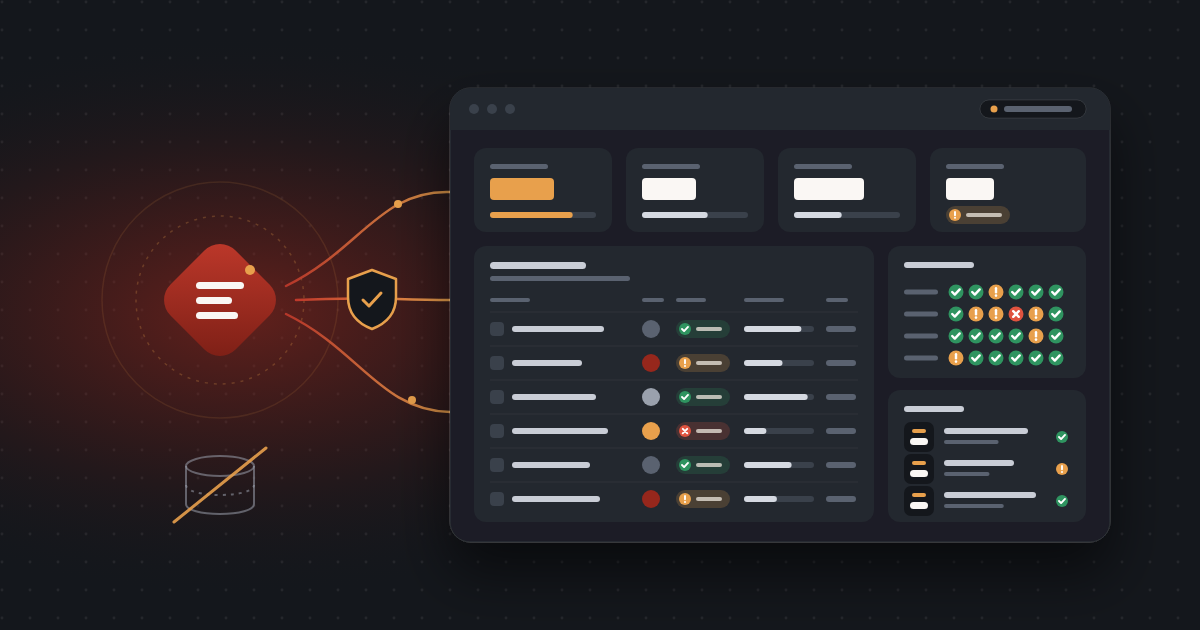
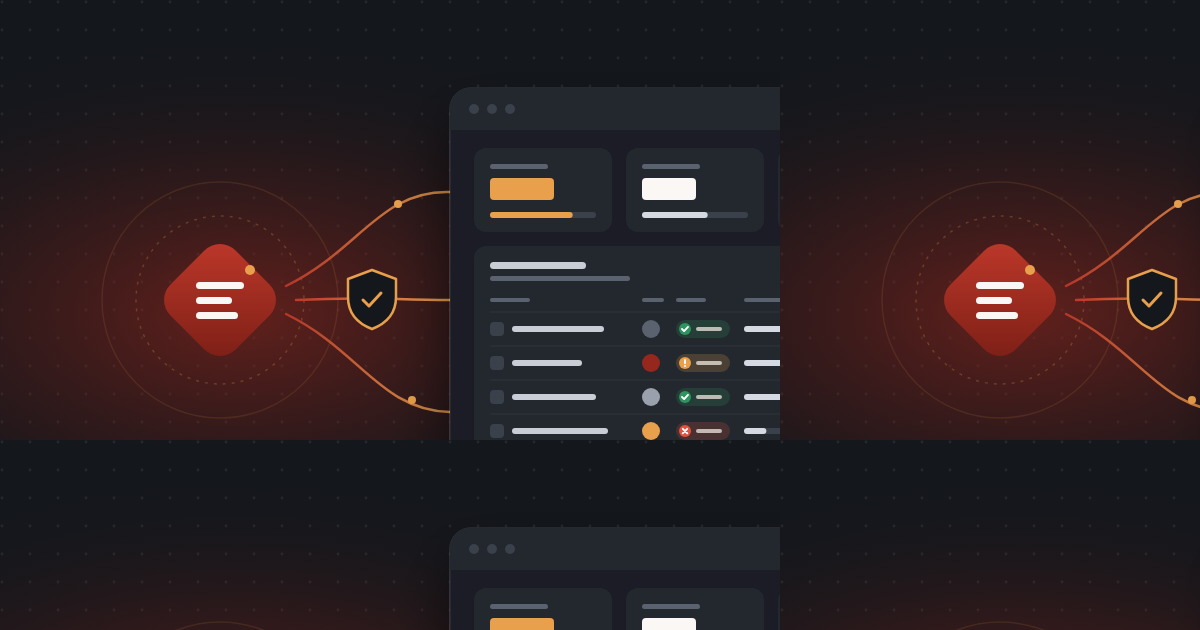
WEB-39 Enlarge hero covers and drop the data-store element
- Hero covers start 140px left of centre (not left of 520px), so they
  are larger and may slightly overlap the feathered edge of the text.
- Remove the struck-through data store from the Jira dashboard cover
  and re-export its PNG; drop the motif from design.md.

Claude-Session: https://claude.ai/code/session_01NFWGc431ugYJ81wxsmhHqL

diff --git a/case-study-dashboard/index.html b/case-study-dashboard/index.html
@@ -26,12 +26,12 @@
 
   <section style="position:relative;overflow:hidden;background:#14171C;color:#FAF7F4;padding-block:clamp(44px,5.5vw,72px);">
     [[#if hero.cover]]
-    <div class="case-cover" style="position:absolute;top:0;bottom:0;left:calc(50% + 20px);right:0;display:flex;align-items:center;pointer-events:none;">
-      <img src="[[ hero.cover ]]" alt="" width="1200" height="630" style="display:block;width:108%;max-width:none;flex:none;height:auto;-webkit-mask-image:linear-gradient(90deg, transparent 0%, #000 14%), linear-gradient(180deg, transparent 0%, #000 9%, #000 91%, transparent 100%);-webkit-mask-composite:source-in;mask-image:linear-gradient(90deg, transparent 0%, #000 14%), linear-gradient(180deg, transparent 0%, #000 9%, #000 91%, transparent 100%);mask-composite:intersect;">
+    <div class="case-cover" style="position:absolute;top:0;bottom:0;left:max(520px, calc(50% - 140px));right:0;display:flex;align-items:center;pointer-events:none;">
+      <img src="[[ hero.cover ]]" alt="" width="1200" height="630" style="display:block;width:104%;max-width:none;flex:none;height:auto;-webkit-mask-image:linear-gradient(90deg, transparent 0%, #000 18%), linear-gradient(180deg, transparent 0%, #000 9%, #000 91%, transparent 100%);-webkit-mask-composite:source-in;mask-image:linear-gradient(90deg, transparent 0%, #000 18%), linear-gradient(180deg, transparent 0%, #000 9%, #000 91%, transparent 100%);mask-composite:intersect;">
     </div>
     [[/if]]
     <div style="position:relative;max-width:1180px;margin-inline:auto;padding-inline:clamp(20px,4vw,48px);">
-      <div class="case-hero-text" style="max-width:min(620px, calc(50% - 20px));">
+      <div class="case-hero-text" style="max-width:min(620px, 60%);">
         <p style="font:600 13px 'Source Sans 3', system-ui, sans-serif;letter-spacing:.18em;text-transform:uppercase;color:#E8A04C;display:flex;align-items:center;gap:12px;margin:0 0 18px;">
           <span style="width:34px;height:2px;background:#E8A04C;"></span><a href="/case-studies" style="color:#E8A04C;">[[ hero.eyebrow ]]</a>
         </p>

diff --git a/case-study-intranet/index.html b/case-study-intranet/index.html
@@ -26,12 +26,12 @@
 
   <section style="position:relative;overflow:hidden;background:#14171C;color:#FAF7F4;padding-block:clamp(44px,5.5vw,72px);">
     [[#if hero.cover]]
-    <div class="case-cover" style="position:absolute;top:0;bottom:0;left:calc(50% + 20px);right:0;display:flex;align-items:center;pointer-events:none;">
-      <img src="[[ hero.cover ]]" alt="" width="1200" height="630" style="display:block;width:108%;max-width:none;flex:none;height:auto;-webkit-mask-image:linear-gradient(90deg, transparent 0%, #000 14%), linear-gradient(180deg, transparent 0%, #000 9%, #000 91%, transparent 100%);-webkit-mask-composite:source-in;mask-image:linear-gradient(90deg, transparent 0%, #000 14%), linear-gradient(180deg, transparent 0%, #000 9%, #000 91%, transparent 100%);mask-composite:intersect;">
+    <div class="case-cover" style="position:absolute;top:0;bottom:0;left:max(520px, calc(50% - 140px));right:0;display:flex;align-items:center;pointer-events:none;">
+      <img src="[[ hero.cover ]]" alt="" width="1200" height="630" style="display:block;width:104%;max-width:none;flex:none;height:auto;-webkit-mask-image:linear-gradient(90deg, transparent 0%, #000 18%), linear-gradient(180deg, transparent 0%, #000 9%, #000 91%, transparent 100%);-webkit-mask-composite:source-in;mask-image:linear-gradient(90deg, transparent 0%, #000 18%), linear-gradient(180deg, transparent 0%, #000 9%, #000 91%, transparent 100%);mask-composite:intersect;">
     </div>
     [[/if]]
     <div style="position:relative;max-width:1180px;margin-inline:auto;padding-inline:clamp(20px,4vw,48px);">
-      <div class="case-hero-text" style="max-width:min(620px, calc(50% - 20px));">
+      <div class="case-hero-text" style="max-width:min(620px, 60%);">
         <p style="font:600 13px 'Source Sans 3', system-ui, sans-serif;letter-spacing:.18em;text-transform:uppercase;color:#E8A04C;display:flex;align-items:center;gap:12px;margin:0 0 18px;">
           <span style="width:34px;height:2px;background:#E8A04C;"></span><a href="/case-studies" style="color:#E8A04C;">[[ hero.eyebrow ]]</a>
         </p>

diff --git a/design.md b/design.md
@@ -137,7 +137,7 @@ Flat, hand-built SVG artwork that shows the things M20's work produces: intranet
 
 | Type | SVG canvas | PNG export | Ground | Where it goes |
 |---|---|---|---|---|
-| **Cover** | `1200×630` | `1200×630` (1×) | Ink `#14171C` + dot mesh + maroon glow | Background art in the right half of a dark page hero, bleeding off the right edge like the homepage hero image (no bottom curve). Shown whole (never cropped) and only feathered at its edges, so its left-side story stays visible. The PNG is the page's **social share image**. Decorative on the page: `alt=""`. |
+| **Cover** | `1200×630` | `1200×630` (1×) | Ink `#14171C` + dot mesh + maroon glow | Background art on the right of a dark page hero, slightly overlapping the text column and bleeding off the right edge like the homepage hero image (no bottom curve). Shown whole (never cropped) and only feathered at its edges, so its left-side story stays visible. The PNG is the page's **social share image**. Decorative on the page: `alt=""`. |
 | **Illustration** | `1200×800` | `2400×1600` (2×) | Paper `#FAF7F4` | Half of a two-column section, beside the text it explains (`align-items:center`), so it never breaks the section's alignment. `width:100%` of its column, `22px` radius, `1px` border (`#E4DCD3` on light sections, `rgba(255,255,255,.08)` on dark). Needs alt text. |
 | **Spot** | `240×240` | `480×480` (2×, transparent) | Red-tint circle `#F9E9E4` (`r=104`) on transparent | Top of a card on an index page, shown at `96px` in place of an icon badge (`margin:0 0 14px -7px` so the circle lines up with the card's text edge). Always decorative: `alt=""`. |
 
@@ -167,7 +167,6 @@ Supporting motifs:
 - **Page parts** — dark hero band with a gold kicker rule, white cards with tinted icon chips, a red CTA pill, an outline pill.
 - **System of record** — a rounded diamond (`22px` radius, rotated 45°, `#C0392B → #7A1E15` gradient) with three paper bars. It stands for Jira or any source system. Use a real product logo only from the approved Atlassian set, with attribution.
 - **Security** — a shield with a check (permissions, review passed) or a lock (secured production).
-- **Nothing stored** — a dashed data-store cylinder struck through in gold.
 - **Pipeline** — a white chip with two circular arrows (CI/CD); a Git graph (ink trunk, red feature branch merging back).
 - **Progression** — dashed gold connector (`stroke-width:2.5`, `stroke-dasharray:2 8`, round caps) ending in an open chevron. Phases rise left to right on paper-alt step platforms, numbered with 1/2/3 red pips (not digits).
 - **Draft state** — dashed grey (`#9AA1AD`, `stroke-dasharray:4–8`) outlines for prototypes and wireframes.
@@ -200,7 +199,7 @@ The dark-ground set was chosen to pass colorblind (protan/deutan/tritan) separat
 
 ### Making new artwork
 
-1. **Pick the type and the story.** From the page copy, list the three or four facts the image must show (e.g. "nothing stored", "passes security review", "three phases"). One story per image.
+1. **Pick the type and the story.** From the page copy, list the three or four facts the image must show (e.g. "Jira stays the source", "passes security review", "three phases"). One story per image.
 2. **Start from the closest file** in `assets/artwork/<type>/`: copy it to `<subject>.svg` and rework it. Reuse the motifs and data forms above — don't invent new chart types.
 3. **Check it against the rules:** only tables, meters, event lists, and RAG charts for data; RAG marks carry glyphs; red only for action or red status; no words; exact `viewBox`.
 4. **Export the PNG:** `npm run artwork:png` writes `<subject>.png` beside every new or changed SVG at its type's export size (`-- --all` re-exports everything). It needs Google Chrome or Chromium; set `CHROME_PATH` if it isn't found.
@@ -219,15 +218,16 @@ The dark-ground set was chosen to pass colorblind (protan/deutan/tritan) separat
 </div>
 
 <!-- Cover: first child of a dark hero <section style="position:relative;overflow:hidden;…">.
-     It fills the right half of the hero, vertically centred, at its natural 1200×630 shape
-     (never object-fit:cover, which crops the art's left side). It runs 8% past the right
-     edge, where covers only have glow, and is feathered on the left, top and bottom.
-     Wrap the hero text in .case-hero-text with max-width:min(620px, calc(50% - 20px)) so it
-     never runs under the art. Under 900px the cover is hidden and the text goes full width:
+     It starts 140px left of centre (never left of 520px, so narrow screens don't put the
+     art under the heading), vertically centred, at its natural 1200×630 shape (never
+     object-fit:cover, which crops the art's left side). It runs 4% past the right edge,
+     where covers only have glow, and is feathered on the left, top and bottom. Wrap the
+     hero text in .case-hero-text with max-width:min(620px, 60%); a little overlap with the
+     feathered left edge is fine. Under 900px the cover is hidden and the text goes full width:
      @media (max-width: 900px) { .case-cover { display: none; } .case-hero-text { max-width: none !important; } } -->
 [[#if hero.cover]]
-<div class="case-cover" style="position:absolute;top:0;bottom:0;left:calc(50% + 20px);right:0;display:flex;align-items:center;pointer-events:none;">
-  <img src="[[ hero.cover ]]" alt="" width="1200" height="630" style="display:block;width:108%;max-width:none;flex:none;height:auto;-webkit-mask-image:linear-gradient(90deg, transparent 0%, #000 14%), linear-gradient(180deg, transparent 0%, #000 9%, #000 91%, transparent 100%);-webkit-mask-composite:source-in;mask-image:linear-gradient(90deg, transparent 0%, #000 14%), linear-gradient(180deg, transparent 0%, #000 9%, #000 91%, transparent 100%);mask-composite:intersect;">
+<div class="case-cover" style="position:absolute;top:0;bottom:0;left:max(520px, calc(50% - 140px));right:0;display:flex;align-items:center;pointer-events:none;">
+  <img src="[[ hero.cover ]]" alt="" width="1200" height="630" style="display:block;width:104%;max-width:none;flex:none;height:auto;-webkit-mask-image:linear-gradient(90deg, transparent 0%, #000 18%), linear-gradient(180deg, transparent 0%, #000 9%, #000 91%, transparent 100%);-webkit-mask-composite:source-in;mask-image:linear-gradient(90deg, transparent 0%, #000 18%), linear-gradient(180deg, transparent 0%, #000 9%, #000 91%, transparent 100%);mask-composite:intersect;">
 </div>
 [[/if]]
 ```
